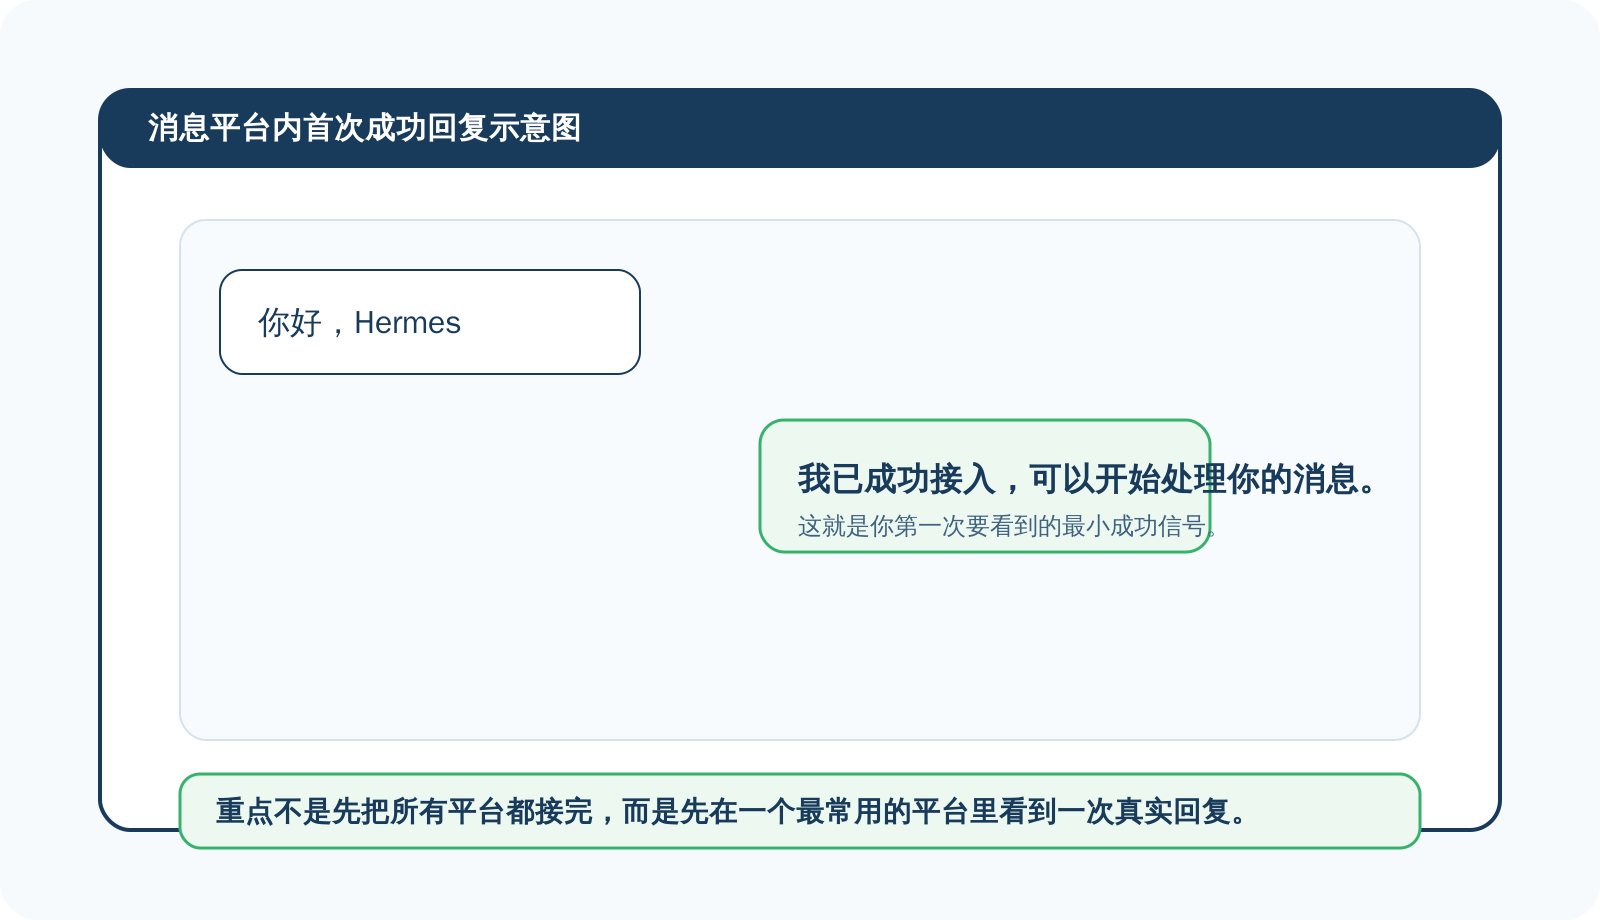
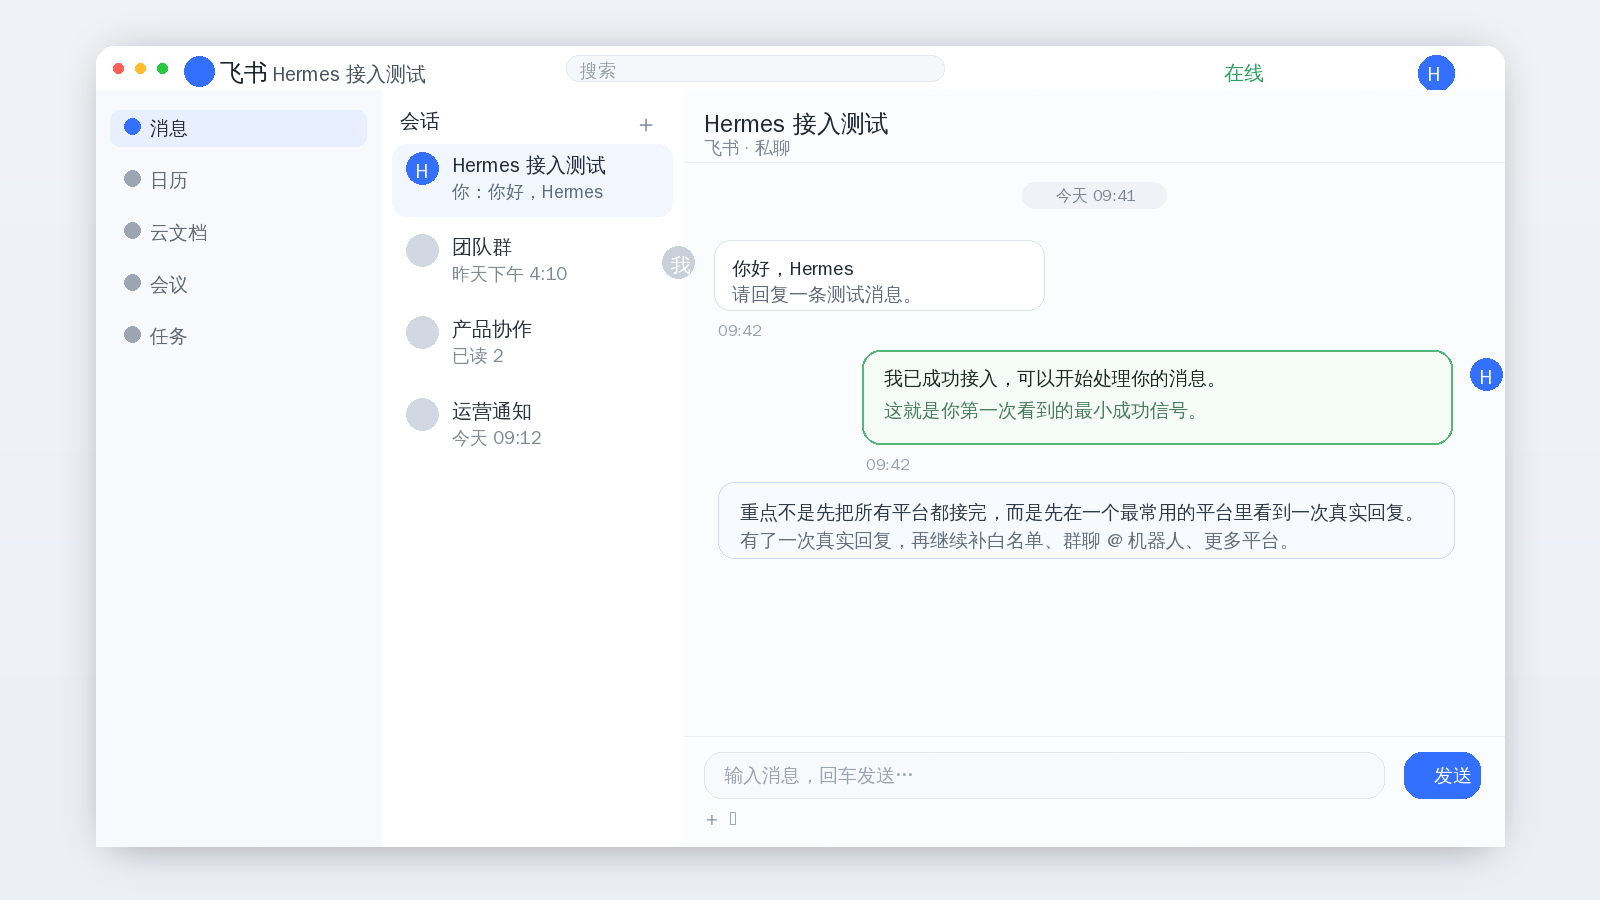
Replace Feishu success screenshot

diff --git a/docs/01-从这开始/02-开始上手/05-接入一个消息平台（推荐飞书）.md b/docs/01-从这开始/02-开始上手/05-接入一个消息平台（推荐飞书）.md
@@ -101,7 +101,7 @@ hermes gateway
 
 ### ➡ 第 5 步：用真实消息验收第一次回复
 
-![平台内第一次成功回复示意图：用户发出一条消息后，Hermes 在消息平台里返回正常可读回复；真正成功时，你要看到的最小信号就是这种“发出去一条，回回来一条”](../assets/rm2-3-connect-platform-03-first-message-success.png)
+![飞书聊天截图：用户发出一条真实消息后，Hermes 在飞书里返回正常可读回复；真正成功时，你要看到的最小信号就是这种“发出去一条，回回来一条”](../assets/rm2-3-connect-platform-03-first-message-success.png)
 
 真正的成功标准只有一个：
 
